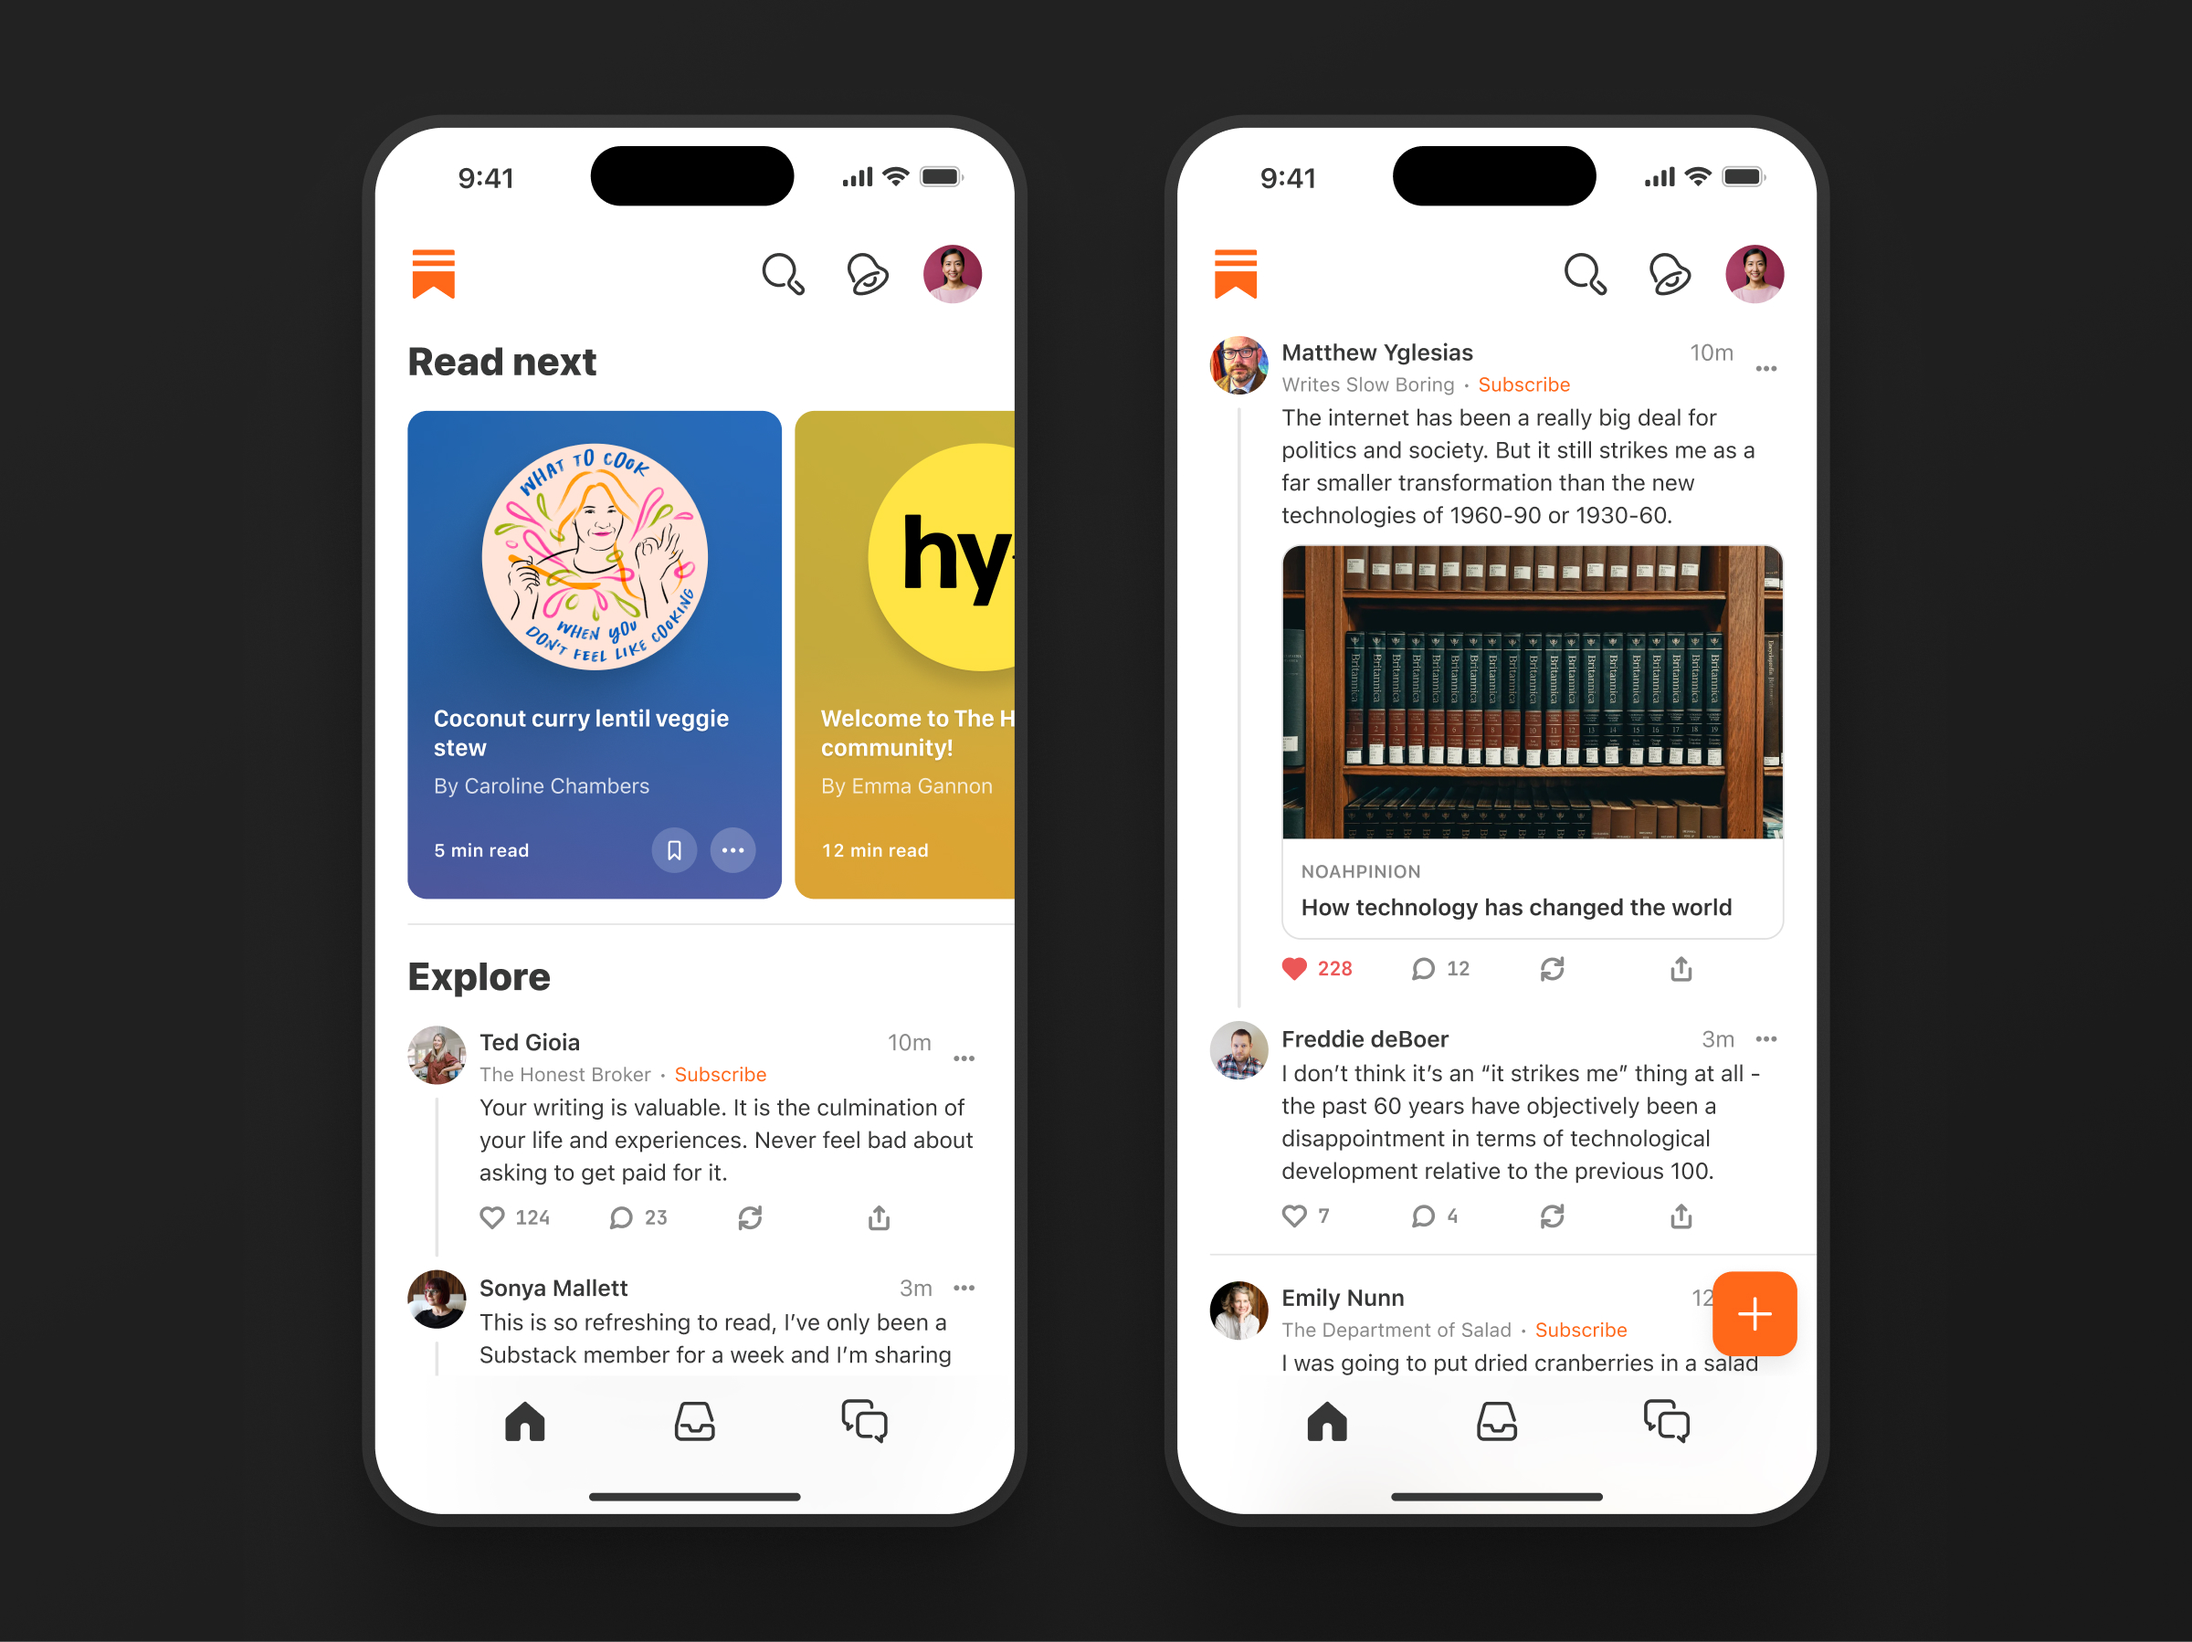
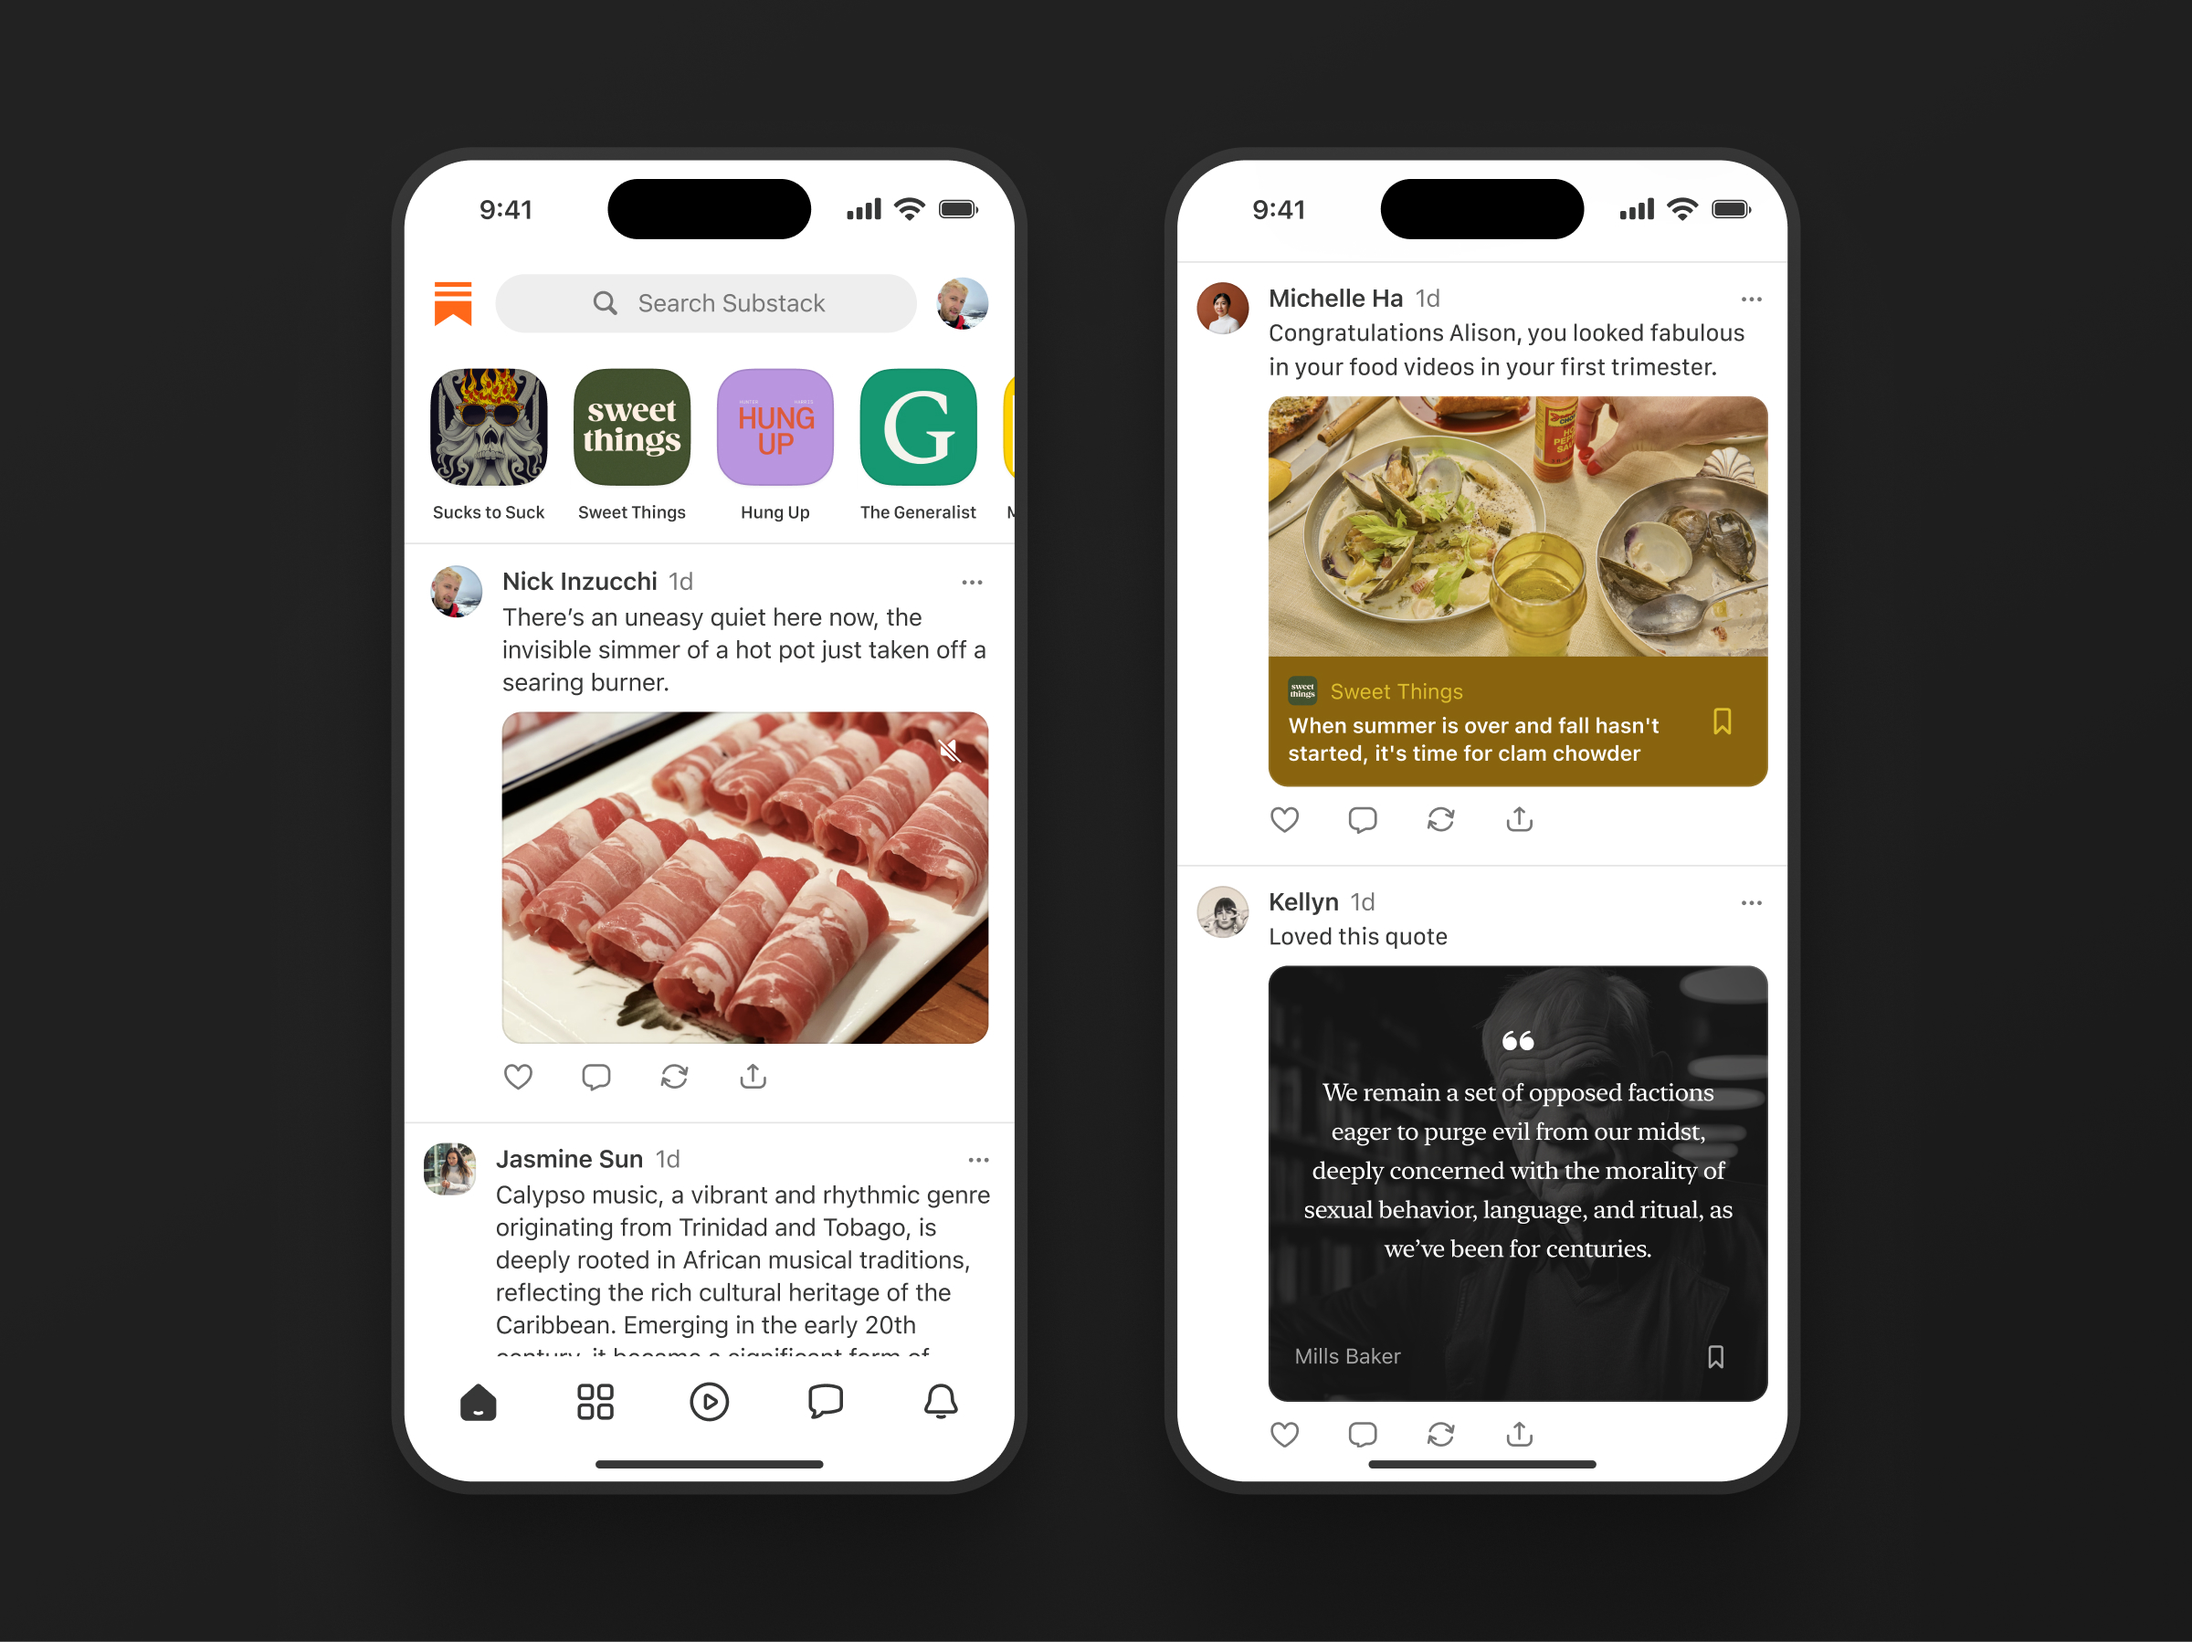
add images

diff --git a/src/lib/data.ts b/src/lib/data.ts
@@ -55,7 +55,12 @@ export const projects: {
     title: 'Substack app',
     description: 'The best way for creators and their readers to experience Substack.',
     year: '2025',
-    images: ['/projects/app-01.jpg', '/projects/app-02.jpg', '/projects/app-03.jpg'],
+    images: [
+      '/projects/app-01.jpg',
+      '/projects/app-02.jpg',
+      '/projects/app-03.jpg',
+      '/projects/app-04.jpg',
+    ],
   },
   {
     slug: 'substack-creator-dashboard',
